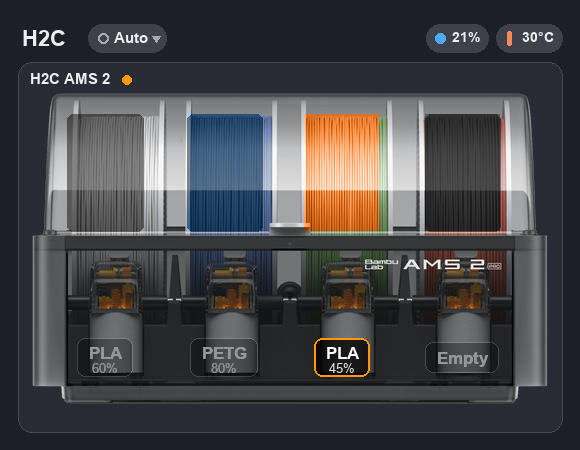
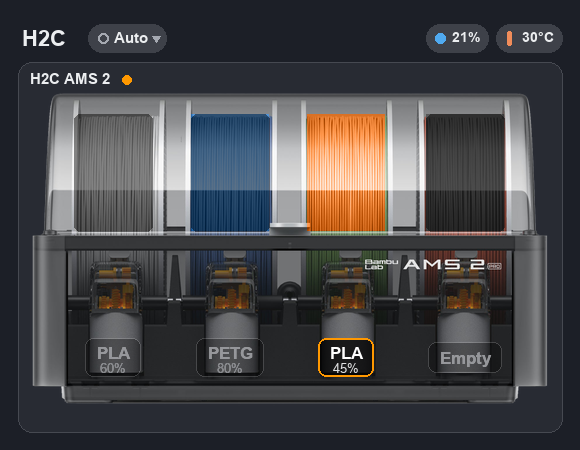
fix: align AMS 2 Pro recolour windows to strand bands (no bleed onto dividers)
- Re-measured strand bands; windows now sit inside the spool edges
- Add reproducible scripts/make_preview.py; regenerate preview
- v0.3.2

diff --git a/better-ams-card.js b/better-ams-card.js
@@ -16,7 +16,7 @@
  * https://github.com/petergCA/better-ams-card
  */
 
-const VERSION = "0.3.1";
+const VERSION = "0.3.2";
 
 // Default location for the bundled artwork. Raw GitHub resolves on any install
 // with internet (HACS does not serve a plugin's extra files). Override with
@@ -34,10 +34,10 @@ const MODELS = {
   "ams 2 pro": {
     slots: 4, label: "AMS 2 Pro", image: "ams2pro.png", natW: 1790, natH: 1090, labelY: 84,
     windows: [
-      { x: 7.3, y: 7, w: 14.5, h: 37 },
-      { x: 30.2, y: 7, w: 14.5, h: 37 },
-      { x: 52.8, y: 7, w: 14.5, h: 37 },
-      { x: 76.0, y: 7, w: 14.5, h: 37 },
+      { x: 8.6, y: 7, w: 15.0, h: 37 },
+      { x: 31.1, y: 7, w: 15.0, h: 37 },
+      { x: 53.4, y: 7, w: 15.0, h: 37 },
+      { x: 76.2, y: 7, w: 15.0, h: 37 },
     ],
   },
   "ams": {

diff --git a/scripts/make_preview.py b/scripts/make_preview.py
@@ -1,0 +1,124 @@
+#!/usr/bin/env python3
+"""Render a faithful README preview from the real AMS artwork.
+
+Replicates the card's CSS `mix-blend-mode: color` (SetLum) per pixel so the
+preview matches what the card actually draws. Run from the repo root:
+
+    python3 scripts/make_preview.py
+"""
+from PIL import Image, ImageDraw, ImageFont
+
+AR = "/System/Library/Fonts/Supplemental/Arial.ttf"
+ARB = "/System/Library/Fonts/Supplemental/Arial Bold.ttf"
+def font(sz, bold=False): return ImageFont.truetype(ARB if bold else AR, sz)
+
+ACCENT = (255, 152, 0)
+CARD = (28, 31, 39); UNIT = (40, 43, 51); TXT = (236, 238, 240); SEC = (165, 169, 177); CHIP = (62, 65, 73)
+
+# ---- CSS 'color' blend (W3C SetLum) ----
+def lum(r, g, b): return 0.3 * r + 0.59 * g + 0.11 * b
+def clip(r, g, b):
+    L = lum(r, g, b); n = min(r, g, b); x = max(r, g, b)
+    if n < 0 and L != n:
+        r = L + (r - L) * L / (L - n); g = L + (g - L) * L / (L - n); b = L + (b - L) * L / (L - n)
+    if x > 255 and x != L:
+        r = L + (r - L) * (255 - L) / (x - L); g = L + (g - L) * (255 - L) / (x - L); b = L + (b - L) * (255 - L) / (x - L)
+    return r, g, b
+def set_lum(c, L):
+    d = L - lum(*c); return clip(c[0] + d, c[1] + d, c[2] + d)
+
+def recolor(img, box, color):
+    x0, y0, x1, y1 = box; px = img.load()
+    for y in range(y0, y1):
+        for x in range(x0, x1):
+            r, g, b, a = px[x, y]
+            if a < 8: continue
+            nr, ng, nb = set_lum(color, lum(r, g, b))
+            px[x, y] = (int(max(0, min(255, nr))), int(max(0, min(255, ng))), int(max(0, min(255, nb))), a)
+def desaturate(img, box, dark=0.0):
+    x0, y0, x1, y1 = box; px = img.load()
+    for y in range(y0, y1):
+        for x in range(x0, x1):
+            r, g, b, a = px[x, y]
+            if a < 8: continue
+            L = int(lum(r, g, b) * (1 - dark)); px[x, y] = (L, L, L, a)
+
+# Calibrated filament windows (must match MODELS["ams 2 pro"].windows in the card)
+WINS = [(8.6, 7, 15.0, 37), (31.1, 7, 15.0, 37), (53.4, 7, 15.0, 37), (76.2, 7, 15.0, 37)]
+SLOTS = [
+    dict(type="PLA",  color=(225, 225, 225), pct=60, active=False, empty=False),
+    dict(type="PETG", color=(46, 111, 176),  pct=80, active=False, empty=False),
+    dict(type="PLA",  color=(224, 119, 43),   pct=45, active=True,  empty=False),
+    dict(type="",     color=None,             pct=None, active=False, empty=True),
+]
+
+ams = Image.open("images/ams2pro.png").convert("RGBA")
+GW = 520; GH = int(GW * ams.height / ams.width)
+ams = ams.resize((GW, GH), Image.LANCZOS)
+def box(w):
+    x, y, ww, hh = w
+    return (int(x / 100 * GW), int(y / 100 * GH), int((x + ww) / 100 * GW), int((y + hh) / 100 * GH))
+
+for w, s in zip(WINS, SLOTS):
+    b = box(w)
+    if s["empty"]:
+        desaturate(ams, b, dark=0.35)
+    else:
+        recolor(ams, b, s["color"])
+
+veil = Image.new("RGBA", ams.size, (0, 0, 0, 0)); vd = ImageDraw.Draw(veil)
+for w, s in zip(WINS, SLOTS):
+    if not s["active"]:
+        x0, y0, x1, y1 = box(w); vd.rounded_rectangle([x0, y0, x1, y1], radius=6, fill=(0, 0, 0, 120))
+ams = Image.alpha_composite(ams, veil)
+
+def bay_label(img, cx, cy, type_, pct, active, dim):
+    d = ImageDraw.Draw(img); f1 = font(17, True); f2 = font(13)
+    lines = [type_ if type_ else "Empty"] + ([f"{pct}%"] if pct is not None else [])
+    w1 = d.textlength(lines[0], font=f1); w2 = d.textlength(lines[1], font=f2) if len(lines) > 1 else 0
+    bw = int(max(w1, w2)) + 22; bh = (26 if len(lines) > 1 else 18) + 12
+    x0 = int(cx - bw / 2); y0 = int(cy - bh / 2)
+    alpha = 255 if active else (130 if dim else 200)
+    layer = Image.new("RGBA", img.size, (0, 0, 0, 0)); ld = ImageDraw.Draw(layer)
+    ld.rounded_rectangle([x0, y0, x0 + bw, y0 + bh], radius=8,
+                         fill=(0, 0, 0, int(0.78 * alpha) if active else int(0.62 * alpha)),
+                         outline=ACCENT if active else (255, 255, 255, 40), width=2 if active else 1)
+    img.alpha_composite(layer)
+    d = ImageDraw.Draw(img); col = (255, 255, 255, alpha)
+    ty = y0 + (5 if len(lines) > 1 else 6)
+    d.text((cx - w1 / 2, ty), lines[0], font=f1, fill=col)
+    if len(lines) > 1:
+        d.text((cx - w2 / 2, ty + 18), lines[1], font=f2, fill=(255, 255, 255, int(alpha * 0.85)))
+
+for w, s in zip(WINS, SLOTS):
+    x, y, ww, hh = w; cx = int((x + ww / 2) / 100 * GW); cy = int(0.84 * GH)
+    bay_label(ams, cx, cy, s["type"], s["pct"], s["active"], dim=not s["active"])
+
+PAD = 18; UPAD = 12
+CW = GW + PAD * 2 + UPAD * 2
+header_h = 44; uhead_h = 30
+CH = PAD + header_h + UPAD + uhead_h + GH + UPAD + PAD
+canvas = Image.new("RGBA", (CW, CH), CARD + (255,)); d = ImageDraw.Draw(canvas)
+d.text((PAD + 4, PAD + 8), "H2C", font=font(22, True), fill=TXT)
+tw = d.textlength("Auto", font=font(15, True)); px0 = PAD + 70
+d.rounded_rectangle([px0, PAD + 6, px0 + tw + 44, PAD + 34], radius=14, fill=CHIP)
+d.text((px0 + 26, PAD + 11), "Auto", font=font(15, True), fill=TXT)
+d.polygon([(px0 + tw + 30, PAD + 18), (px0 + tw + 38, PAD + 18), (px0 + tw + 34, PAD + 24)], fill=SEC)
+d.ellipse([px0 + 10, PAD + 15, px0 + 20, PAD + 25], outline=SEC, width=2)
+def chip(x, txt):
+    w = d.textlength(txt, font=font(14, True)) + 34
+    d.rounded_rectangle([x, PAD + 6, x + w, PAD + 34], radius=14, fill=CHIP)
+    d.text((x + 26, PAD + 11), txt, font=font(14, True), fill=TXT)
+    return w
+t2 = d.textlength("30°C", font=font(14, True)) + 34; t1 = d.textlength("21%", font=font(14, True)) + 34
+cx2 = CW - PAD - t2; cx1 = cx2 - 8 - t1
+chip(cx1, "21%"); chip(cx2, "30°C")
+d.ellipse([cx1 + 9, PAD + 15, cx1 + 19, PAD + 25], fill=(80, 170, 240))
+d.rounded_rectangle([cx2 + 11, PAD + 13, cx2 + 15, PAD + 27], radius=2, fill=(240, 140, 90))
+uy0 = PAD + header_h
+d.rounded_rectangle([PAD, uy0, CW - PAD, CH - PAD], radius=14, fill=UNIT, outline=(70, 73, 81), width=1)
+d.text((PAD + UPAD, uy0 + 8), "H2C AMS 2", font=font(15, True), fill=TXT)
+d.ellipse([PAD + UPAD + 92, uy0 + 13, PAD + UPAD + 101, uy0 + 22], fill=ACCENT)
+canvas.alpha_composite(ams, (PAD + UPAD, uy0 + uhead_h))
+canvas.convert("RGB").save("images/preview.png", quality=92)
+print("wrote images/preview.png", canvas.size)